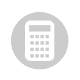
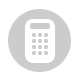
fix pic

diff --git a/public/css/index.css b/public/css/index.css
@@ -44,6 +44,8 @@ footer{
     display: block;
     margin-left: auto;
     margin-right: auto;
+    width: 75px;
+    height: 75px;
 }
 
 @media screen and (max-width: 560px) {
